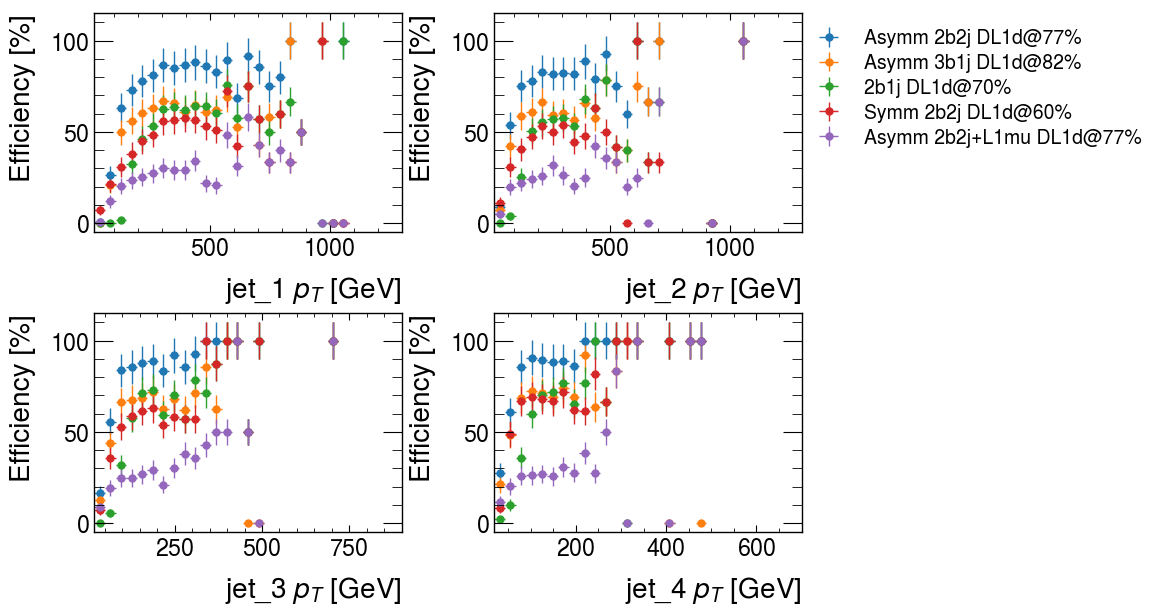
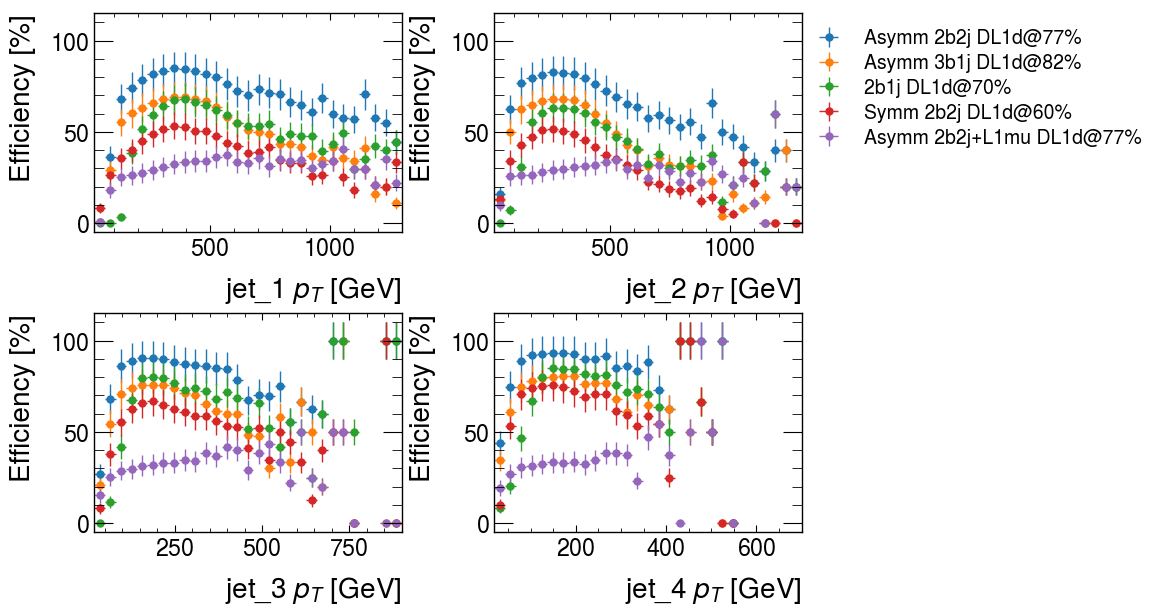
plots of k_01, pt > 20 GeV

diff --git a/plot_resolved_HH4b.py b/plot_resolved_HH4b.py
@@ -53,9 +53,6 @@ truth_diHiggs_mass_hist = IntHistogram(
     "truth_diHiggs_mass", [200_000, 1_300_000], bins=100
 )
 leading_jets_pt_hist = IntHistogramdd("leading_jets_pt", [20_000, 2_000_000], bins=100)
-leading_b_jets_pt_hist = IntHistogramdd(
-    "leading_b_jets_pt", [20_000, 2_000_000], bins=100
-)
 trig_sets_hists = {}
 for trig_set in trig_sets.keys():
     trig_sets_hists[trig_set] = IntHistogramdd(
@@ -77,6 +74,11 @@ for ith_leading_jet in np.arange(0, 4):
         )
 
 btaggers = ["DL1dv01_77", "GN120220509_77"]
+leading_b_jets_pt_hists = {}
+for btagger in btaggers:
+    leading_b_jets_pt_hists[btagger] = IntHistogramdd(
+        f"leading_b_jets_pt_{btagger}", [20_000, 2_000_000], bins=100
+    )
 trig_sets_btag_hists = {}
 for btagger in btaggers:
     trig_sets_btag_hists[btagger] = {}
@@ -207,7 +209,7 @@ def fill_b_jet_pt_hists(events, cuts=None, tagger="DL1dv01", tagger_eff="77"):
     btags = events[f"recojet_antikt4_NOSYS_{tagger}_FixedCutBEff_{tagger_eff}"]
     btags_4 = ak.sum(btags, axis=-1) > 3
     valid_post_btags_4 = cuts & btags_4
-    leading_b_jets_pt_hist.fill(
+    leading_b_jets_pt_hists[f"{tagger}_{tagger_eff}"].fill(
         *[jets_pt[valid_post_btags_4][:, i] for i in np.arange(0, 4)]
     )
 
@@ -325,6 +327,7 @@ def draw_leading_b_jet_pt_vs_trig_eff_hists(tagger="DL1dv01", tagger_eff="77"):
         borderaxespad=0.0,
     )
     fig.savefig(f"trig_eff_vs_jet_pt_{tagger}_{tagger_eff}.png", bbox_inches="tight")
+    plt.close()
 
 
 def draw_leading_jet_pt_vs_trig_eff_hists():
@@ -363,6 +366,7 @@ def draw_leading_jet_pt_vs_trig_eff_hists():
         borderaxespad=0.0,
     )
     fig.savefig("trig_eff_vs_jet_pt.png", bbox_inches="tight")
+    plt.close()
 
 
 def draw_truth_diHiggs_hists():
@@ -377,6 +381,7 @@ def draw_truth_diHiggs_hists():
     ax.set_ylabel("Events")
     ax.set_xlabel(r"$m_{hh}$ [GeV]")
     fig.savefig("truth_diHiggs_mass.png", bbox_inches="tight")
+    plt.close()
 
 
 def draw_truth_diHiggs_trig_eff_hists():
@@ -404,10 +409,10 @@ def draw_truth_diHiggs_trig_eff_hists():
     ax.set_ylabel("Efficiency [%]")
 
     fig.savefig("trig_eff_vs_truth_diHiggs_mass.png", bbox_inches="tight")
+    plt.close()
 
 
 def draw_truth_diHiggs_trig_eff_btag_hists(tagger="DL1dv01", tagger_eff="77"):
-    # fig, ax = plt.subplots()
     fig, (ax_top, ax_bottom) = plt.subplots(
         2, height_ratios=(20, 10), sharex=True, constrained_layout=True
     )
@@ -455,6 +460,7 @@ def draw_truth_diHiggs_trig_eff_btag_hists(tagger="DL1dv01", tagger_eff="77"):
         f"trig_eff_vs_truth_diHiggs_mass_4btags_{tagger}_{tagger_eff}.png",
         bbox_inches="tight",
     )
+    plt.close()
 
 
 def draw_jet_pt_hists():
@@ -474,13 +480,16 @@ def draw_jet_pt_hists():
     ax.set_ylabel("Jets")
     ax.set_yscale("log")
     fig.savefig("leading_jets_pt.png", bbox_inches="tight")
+    plt.close()
 
 
-def draw_b_jet_pt_hists():
+def draw_b_jet_pt_hists(tagger="DL1dv01", tagger_eff="77"):
     fig, ax = plt.subplots()
-    bins = leading_b_jets_pt_hist.edges
+    bins = leading_b_jets_pt_hists[f"{tagger}_{tagger_eff}"].edges
     labels = ["Leading", "Subleading", "Third Leading", "Fourth Leading"]
-    for ith_leading_jet_pt, label in zip(leading_b_jets_pt_hist.values, labels):
+    for ith_leading_jet_pt, label in zip(
+        leading_b_jets_pt_hists[f"{tagger}_{tagger_eff}"].values, labels
+    ):
         hep.histplot(
             ith_leading_jet_pt,
             bins * invGeV,
@@ -492,7 +501,8 @@ def draw_b_jet_pt_hists():
     ax.set_xlabel(r"$p_{T}$ [GeV]")
     ax.set_ylabel("Jets")
     ax.set_yscale("log")
-    fig.savefig("leading_b_jets_pt.png", bbox_inches="tight")
+    fig.savefig(f"leading_b_jets_pt{tagger}_{tagger_eff}.png", bbox_inches="tight")
+    plt.close()
 
 
 def fill_hists(events):
@@ -500,7 +510,8 @@ def fill_hists(events):
     fill_truth_diHiggs_hists(events, run3_cuts)
     fill_jet_pt_hists(events, run3_cuts)
     fill_leading_jet_pt_passed_trig_hists(events, run3_cuts)
-    fill_b_jet_pt_hists(events, cuts=run3_cuts)
+    fill_b_jet_pt_hists(events, cuts=run3_cuts, tagger="DL1dv01", tagger_eff="77")
+    fill_b_jet_pt_hists(events, cuts=run3_cuts, tagger="GN120220509", tagger_eff="77")
     fill_leading_b_jet_pt_vs_trig_hists(
         events, cuts=run3_cuts, tagger="DL1dv01", tagger_eff="77"
     )
@@ -527,7 +538,8 @@ def draw_hists():
     draw_truth_diHiggs_trig_eff_hists()
     draw_jet_pt_hists()
     draw_leading_jet_pt_vs_trig_eff_hists()
-    draw_b_jet_pt_hists()
+    draw_b_jet_pt_hists(tagger="DL1dv01", tagger_eff="77")
+    draw_b_jet_pt_hists(tagger="GN120220509", tagger_eff="77")
     draw_leading_b_jet_pt_vs_trig_eff_hists(tagger="DL1dv01", tagger_eff="77")
     draw_leading_b_jet_pt_vs_trig_eff_hists(tagger="GN120220509", tagger_eff="77")
     draw_truth_diHiggs_trig_eff_btag_hists(tagger="DL1dv01", tagger_eff="77")
@@ -535,11 +547,10 @@ def draw_hists():
 
 
 def run():
-    jets_dict = {}
-    samples = {"mc21_ggF_k10_small": mc21_ggF_k10_small}
+    # samples = {"mc21_ggF_k10_small": mc21_ggF_k10_small}
     # samples = {"mc21_ggF_k01_small": mc21_ggF_k01_small}
     # samples = {"mc21_ggF_k01": mc21_ggF_k01}
-    # samples = {"mc21_ggF_k01_small": mc21_ggF_k01_small}
+    samples = {"mc21_ggF_k10": mc21_ggF_k10}
     vars = ["pt", "eta", "phi", "m"]
     for sample_name, sample_path in samples.items():
         for events, report in uproot.iterate(
@@ -558,6 +569,29 @@ def run():
             print(report)
             fill_hists(events)
     draw_hists()
+
+
+# def run():
+#     vars = ["pt", "eta", "phi", "m"]
+#     for events, report in uproot.iterate(
+#         [
+#             f"{mc21_ggF_k01_small}*.root:AnalysisMiniTree",
+#             f"{mc21_ggF_k10_small}*.root:AnalysisMiniTree",
+#         ],
+#         [
+#             *[f"recojet_antikt4_NOSYS_{var}" for var in vars],
+#             *[f"truth_H1_{var}" for var in vars],
+#             *[f"truth_H2_{var}" for var in vars],
+#             *[f"trigPassed_{trig}" for trig in run3_all],
+#             "recojet_antikt4_NOSYS_DL1dv01_FixedCutBEff_77",
+#             "recojet_antikt4_NOSYS_GN120220509_FixedCutBEff_77",
+#         ],
+#         step_size="1 GB",
+#         report=True,
+#     ):
+#         print(dir(report))
+#         fill_hists(events)
+#     draw_hists()
 
 
 if __name__ == "__main__":
